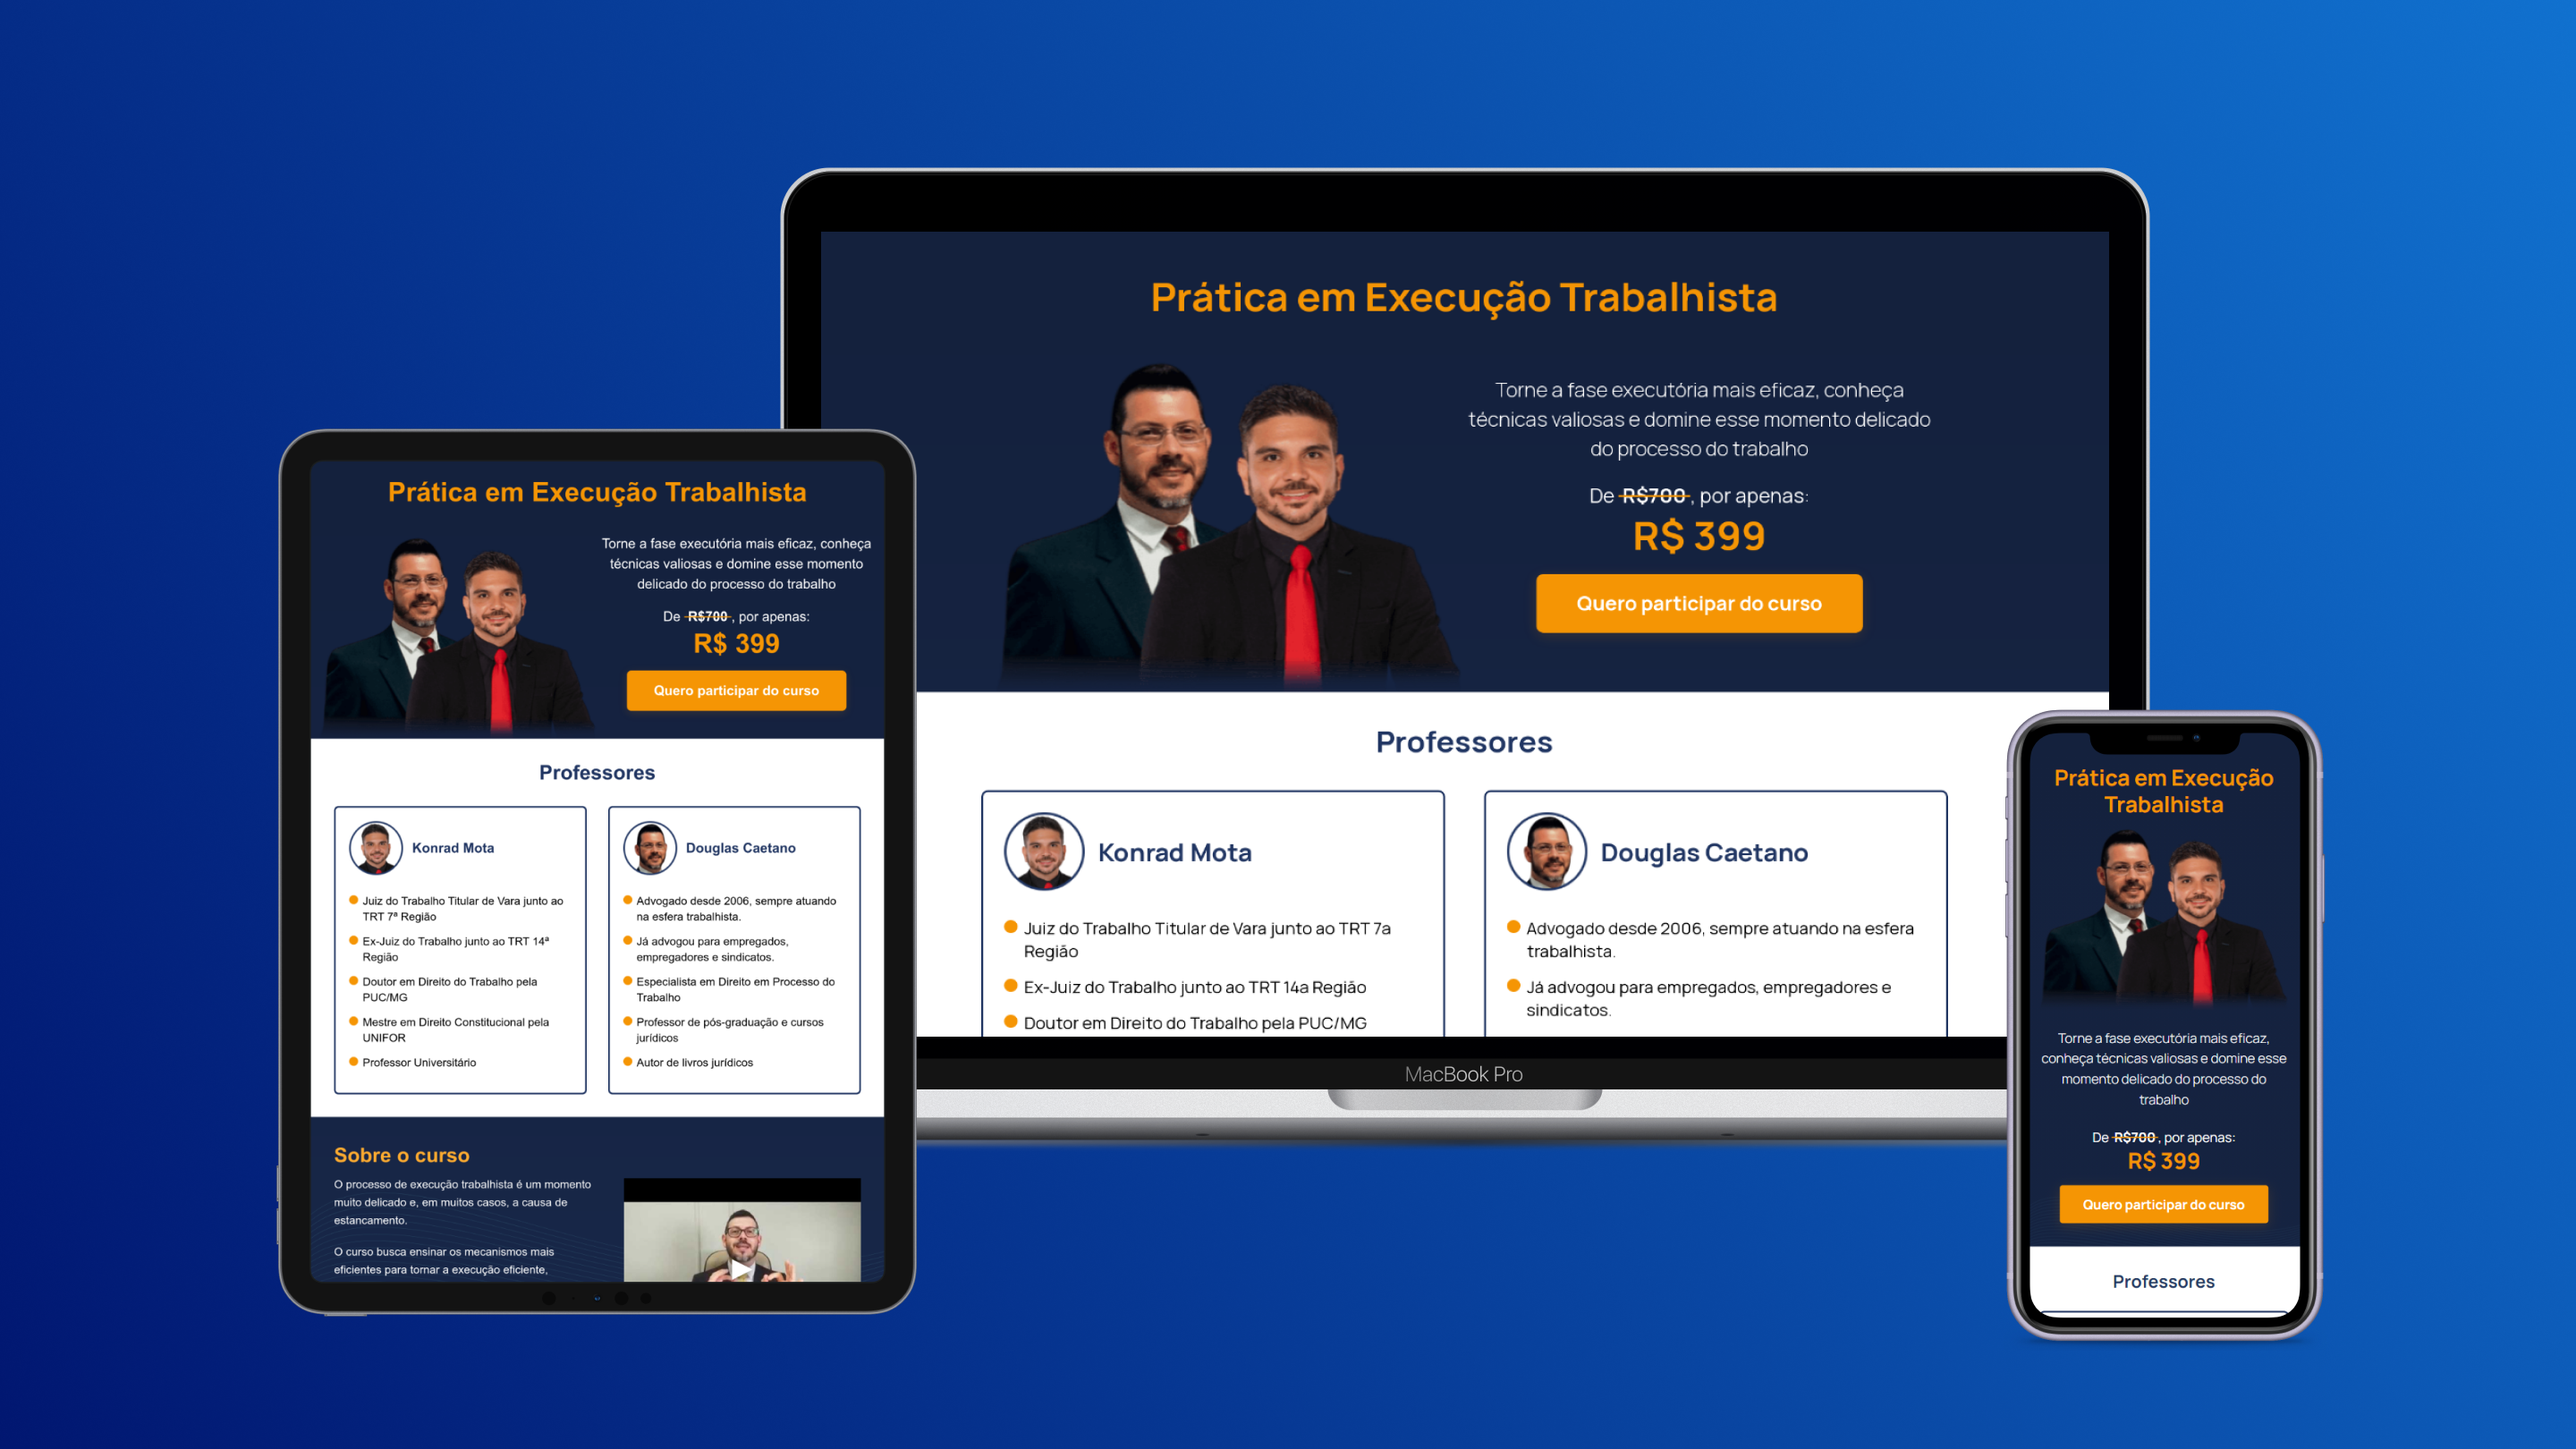
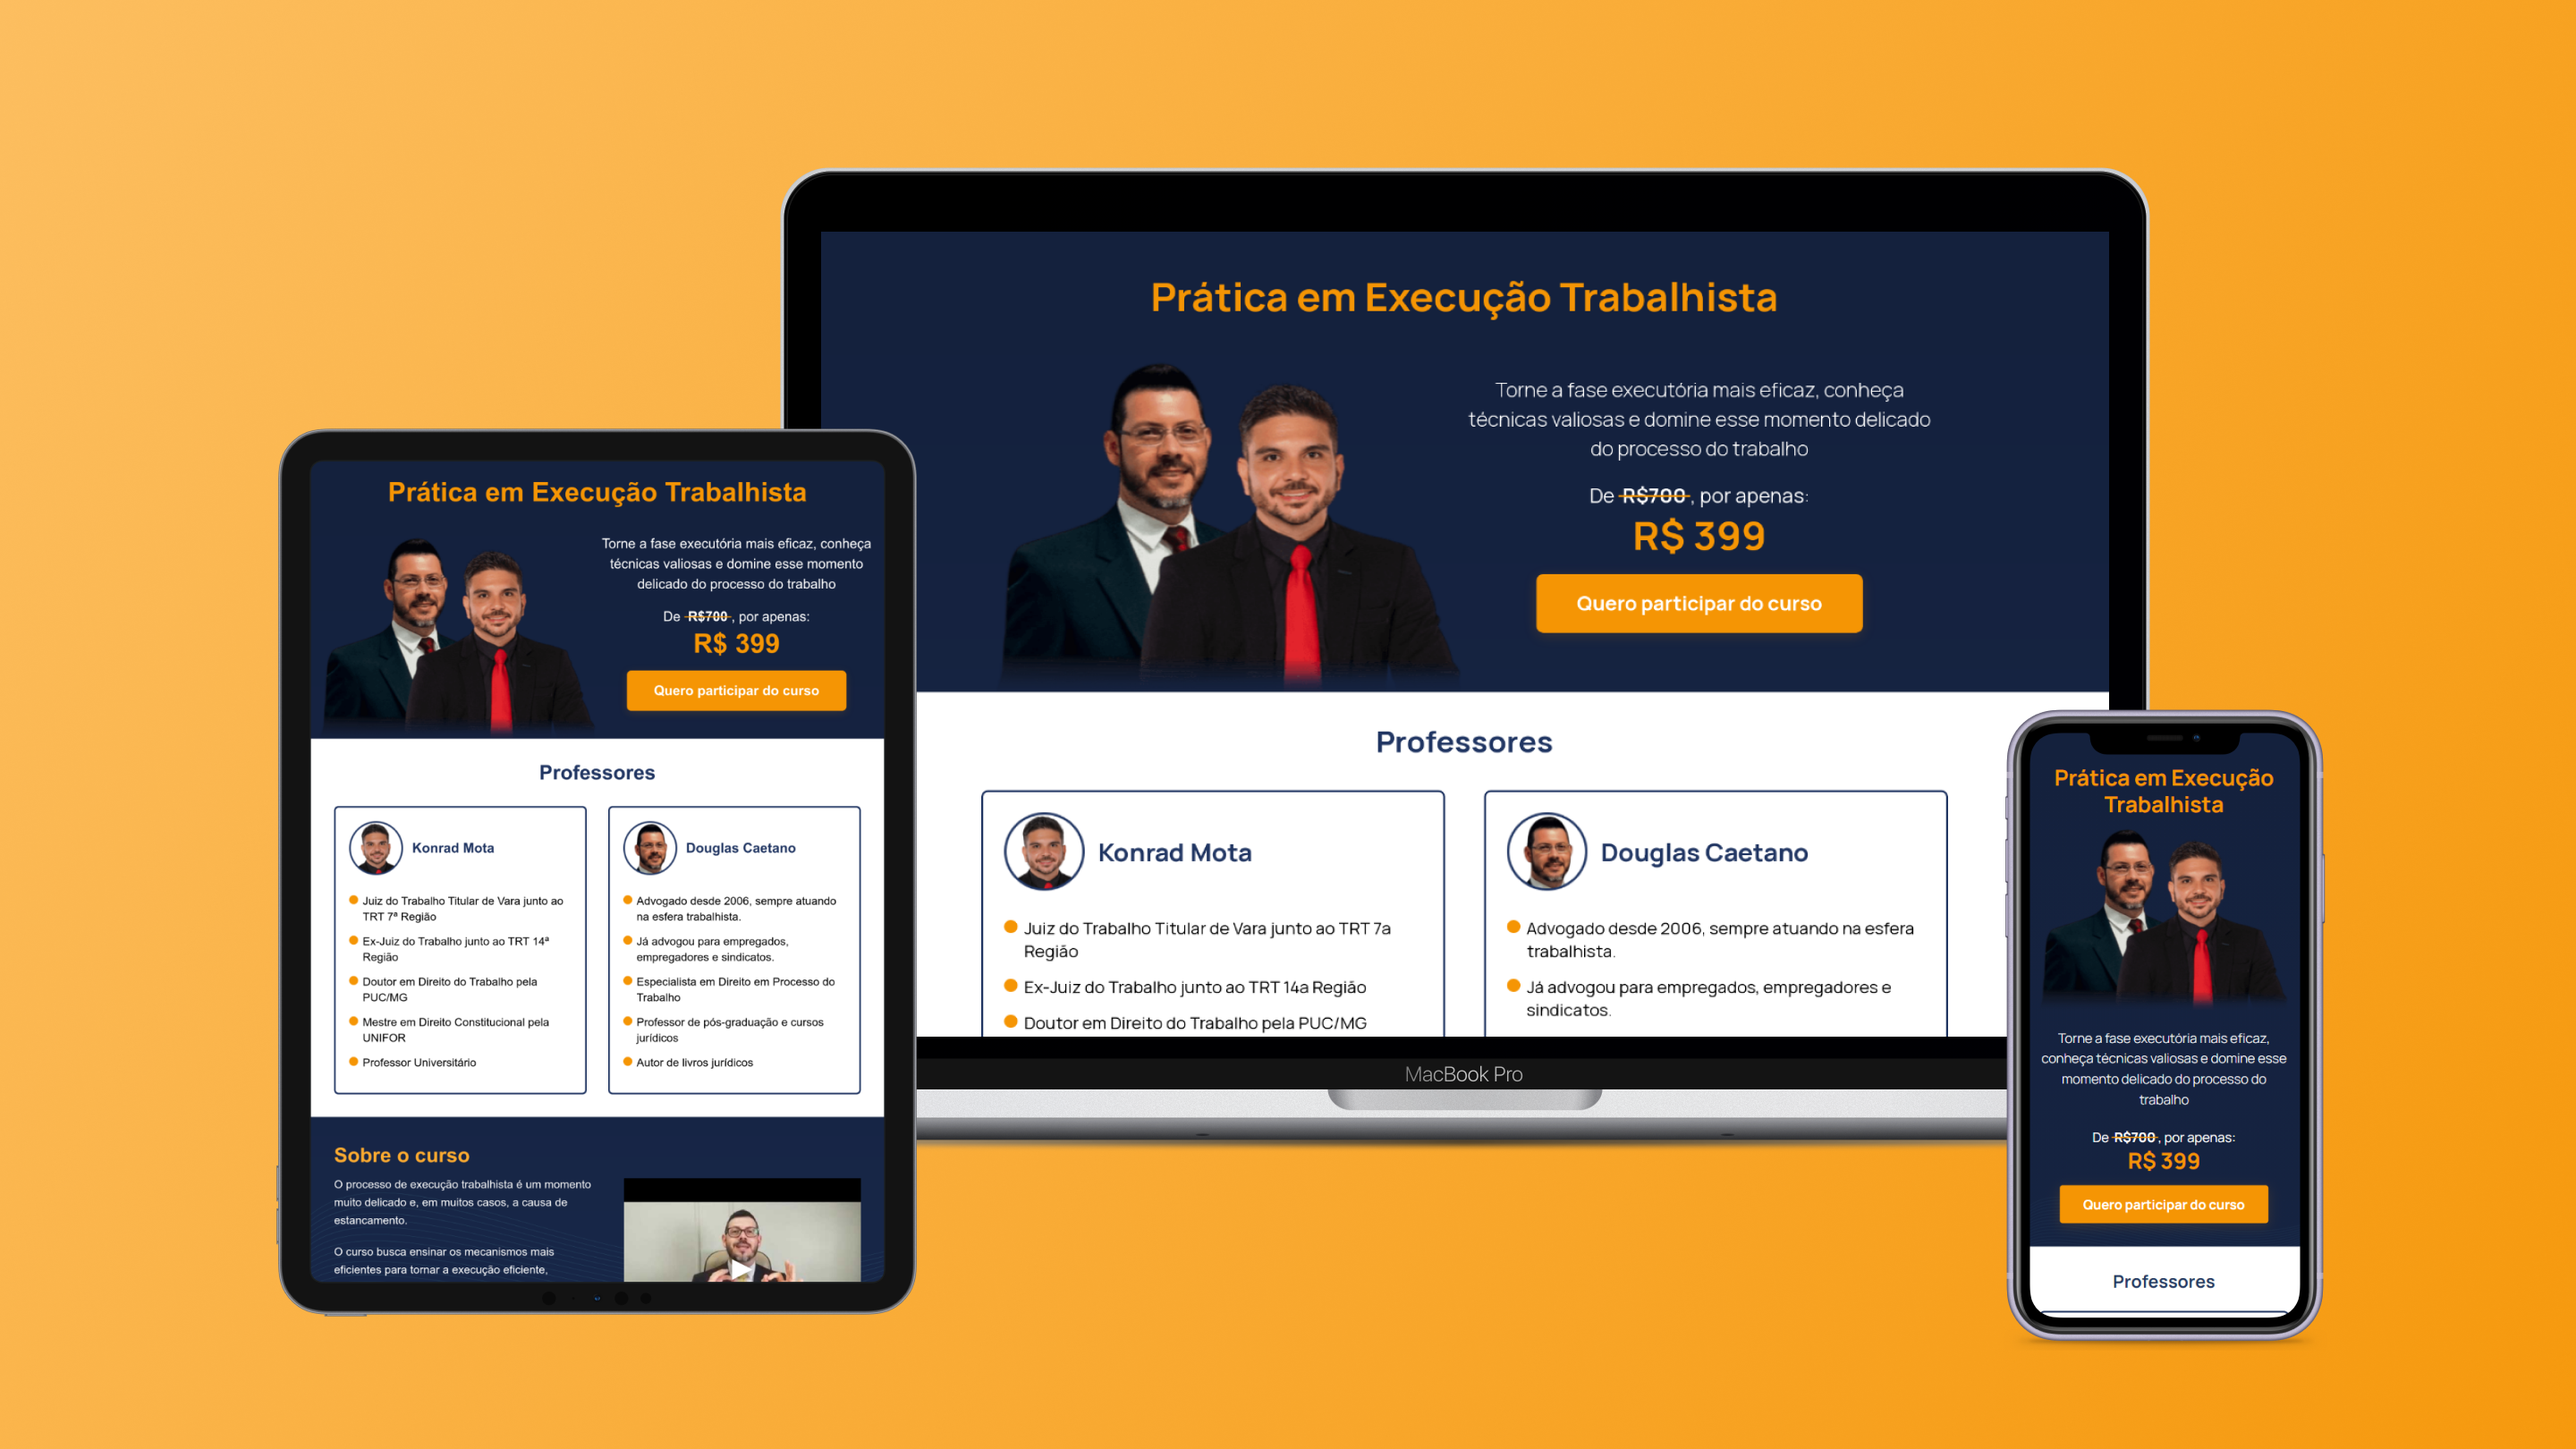
:lipstick: Componente do projeto landing page de vendas

diff --git a/src/pages/index.js b/src/pages/index.js
@@ -21,10 +21,10 @@ const designs = [
 
 const projects = [
     {title: "Landing pages de vendas", subtitle: "Página de apresentação de um produto responsiva e buscando a performance máxima.", image: imageLanding, href: "/projetos/landing-vendas"},
-    {title: "Give me a font", subtitle: "Aplicação para gerar uma fonte aleatória com base na escolha de um estilo para usar no seu próximo projeto.", image: imageLanding, href: "/projetos/give-me-a-font"},
-    {title: "Blog Tech News", subtitle: "Aplicação completa de um blog, com a possibilidade de cadastro, você pode postar suas próprias produções.", image: imageLanding, href: "/projetos/blog-tech-news"},
     {title: "WAL Empathy Lab", subtitle: "Uma experiência de usuário, onde você poderá interagir com a web e vivenciar situações cotidianas de pessoas com deficiência visual.", image: imageLanding, href: "/projetos/wal-empathy"},
     {title: "WAL Plugin", subtitle: "Uma ferramenta que injeta recursos de acessibilidade em sites em tempo de execução, retornando uma página bem mais acessível.", image: imageLanding, href: "/projetos/wal-plugin"},
+    {title: "Give me a font", subtitle: "Aplicação para gerar uma fonte aleatória com base na escolha de um estilo para usar no seu próximo projeto.", image: imageLanding, href: "/projetos/give-me-a-font"},
+    {title: "Blog Tech News", subtitle: "Aplicação completa de um blog, com a possibilidade de cadastro, você pode postar suas próprias produções.", image: imageLanding, href: "/projetos/blog-tech-news"},
     {title: "Página de captura de e-mails", subtitle: "Página para apresentar um evento e exibir um formulário para captar clientes", image: imageLanding, href: "/projetos/landing-emails"},
     {title: "Buscador de filmes", subtitle: "Site que consome a API do The Movie DB para exibir, buscar e se aprofundar em detalhes de diversos filmes.", image: imageLanding, href: "/projetos/buscador-de-filmes"}
 ]
@@ -76,11 +76,6 @@ const Contact = () => (
 )
 
 const Index = () => {
-    let myObj = {
-        src: "https://images.unsplash.com/photo-1593642531955-b62e17bdaa9c?ixid=MnwxMjA3fDF8MHxwaG90by1wYWdlfHx8fGVufDB8fHx8&ixlib=rb-1.2.1&auto=format&fit=crop&w=1050&q=80",
-        alt: "temp",
-        href: "#"
-    }
     return (
     <Layout title="Desenvolvedor front-end" description="Desenvolvedor front-end com ênfase na acessibilidade e otimização dos sites.">
         <main className="wrapper">

diff --git a/src/pages/designs/landing-vendas.js b/src/pages/designs/landing-vendas.js
@@ -1,0 +1,31 @@
+import React from "react"
+
+import Layout from "../../components/Layout"
+import projectImage from "../../images/v2-sf/pagina-de-vendas.png"
+import "../../styles/project.css"
+
+const LandingVendas = () => (
+    <Layout title="Landing page de vendas" description="Desenvolvedor front-end com ênfase na acessibilidade e otimização dos sites. Projeto de design de landing page de vendas.">
+        <header class="project-header">
+            <img src={projectImage} alt="Projeto de design de landing page"></img>
+        </header>
+        <main className="project-main">
+            <h1>Landing page de vendas</h1>
+            <p className="project-date"><span alt="Calendário">📅</span> Abril de 2021</p>
+
+            <h2>Motivação</h2>
+            <p>oaskodkasodkaoskd</p>
+
+            <h2>Processo</h2>
+            <p>asokdaoskdaoskd</p>
+
+            <h2>Resultado</h2>
+
+            <h2>Links de acesso</h2>
+            <a href="https://recjus.com.br">Aplicação</a>
+            <a href="https://www.figma.com/file/0zZTx9yDxeMpQs4J7s16uM/execu%C3%A7%C3%A3o-trabalhista">Figma</a>
+        </main>
+    </Layout>
+)
+
+export default LandingVendas

diff --git a/src/styles/project.css b/src/styles/project.css
@@ -1,0 +1,46 @@
+/* header styling */
+.project-header{
+    width: 100%;
+    display: flex;
+    align-items: center;
+    justify-content: center;
+    padding: 1rem 0;
+    background: linear-gradient(108.24deg, #FCC063 -4.86%, #F59504 111.31%);
+}
+.project-header img{
+    height: 24rem;
+}
+
+/* main styling */
+.project-main{
+    max-width: 54rem;
+    margin: 2.5rem auto 0 auto;
+    padding: 0;
+}
+.project-main h1{
+    font-size: 3rem;
+    font-weight: 700;
+    line-height: 1.15;
+}
+.project-main h2{
+    font-size: 2rem;
+    font-weight: 700;
+    line-height: 1.15;
+    margin-top: 2.5rem;
+}
+.project-date{
+    color: #93a6af;
+    font-size: 1.25rem;
+    font-weight: normal;
+}
+.project-main a{
+    display: block;
+    color: #00b0ff;
+    text-decoration: none;
+}
+.project-main a:hover{
+    text-decoration-color: #00b0ff;
+    text-decoration-thickness: .115em;
+    text-decoration: underline;
+    text-underline-offset: 1px;
+}

diff --git a/src/components/CardHolder.js b/src/components/CardHolder.js
@@ -1,5 +1,6 @@
 import React from "react"
 import debounce from "lodash.debounce"
+import { navigate } from "gatsby-link"
 
 const CardHolder = (props) => {
     const scrollablePostsRef = React.useRef({ current: {} })
@@ -40,7 +41,7 @@ const CardHolder = (props) => {
 
 const Card = (props) => {
     return (<div className="col">
-        <div className="card h-100" role="button">
+        <div className="card h-100" role="button" onClick={() => navigate(props.obj.href)}>
             <img src={props.obj.image} className="card-img-top" alt={props.obj.title}></img>
             <div className="card-body">
                 <h5 className="card-title">{props.obj.title}</h5>

diff --git a/src/styles/index.css b/src/styles/index.css
@@ -19,9 +19,6 @@ html, body{ background-color: hsl(0, 0%, 0%); }
     margin: 0 auto;
     padding: 0;
 }
-nav{
-    width: 100%;
-}
 ::selection{
     background-color: #ff5252;
 }
@@ -51,6 +48,9 @@ nav{
 }
 .navbar-dark .navbar-nav .nav-link{
     color: #fafafa;
+}
+#navbarNav{
+    flex-direction: row-reverse;
 }
 
 /* First section styling */
